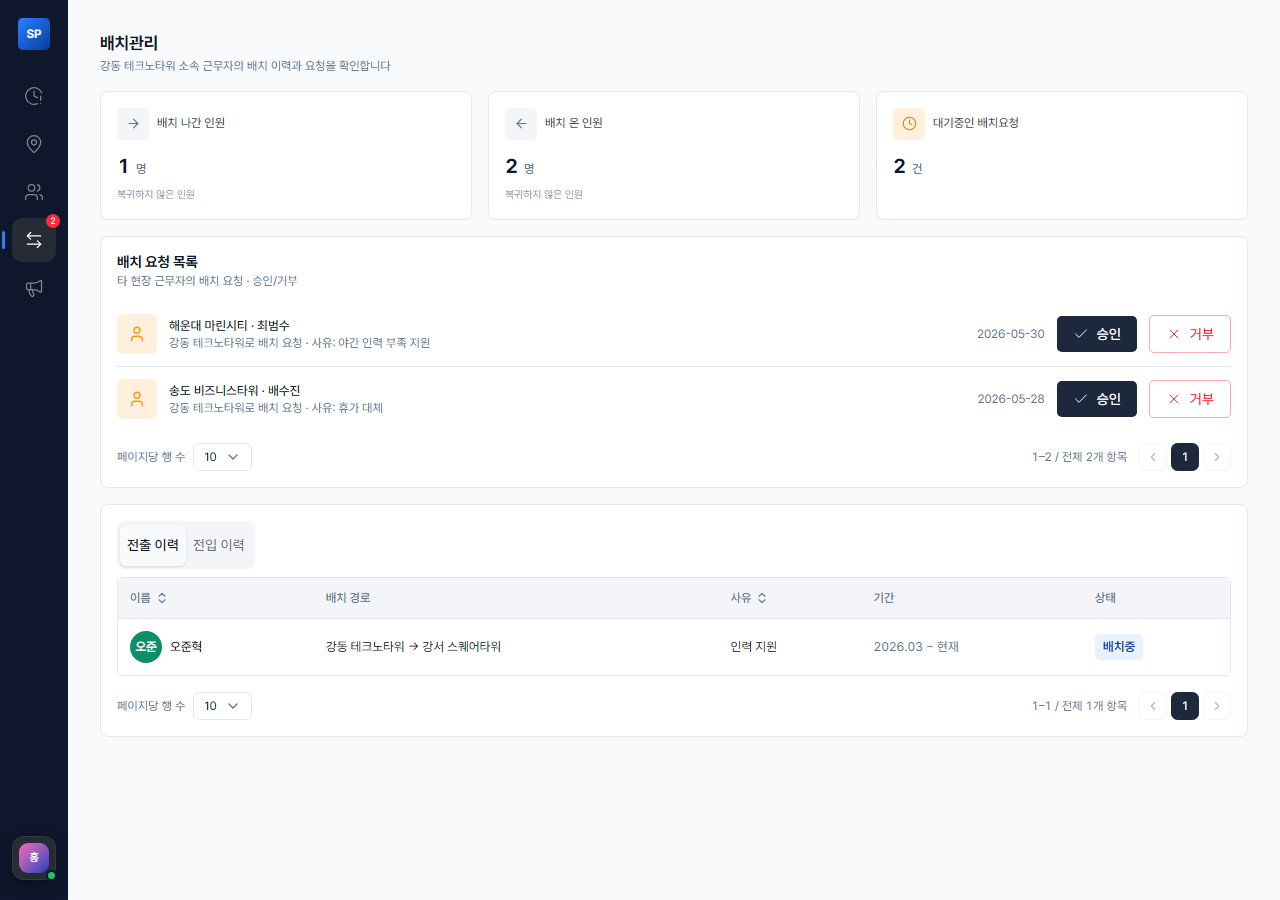
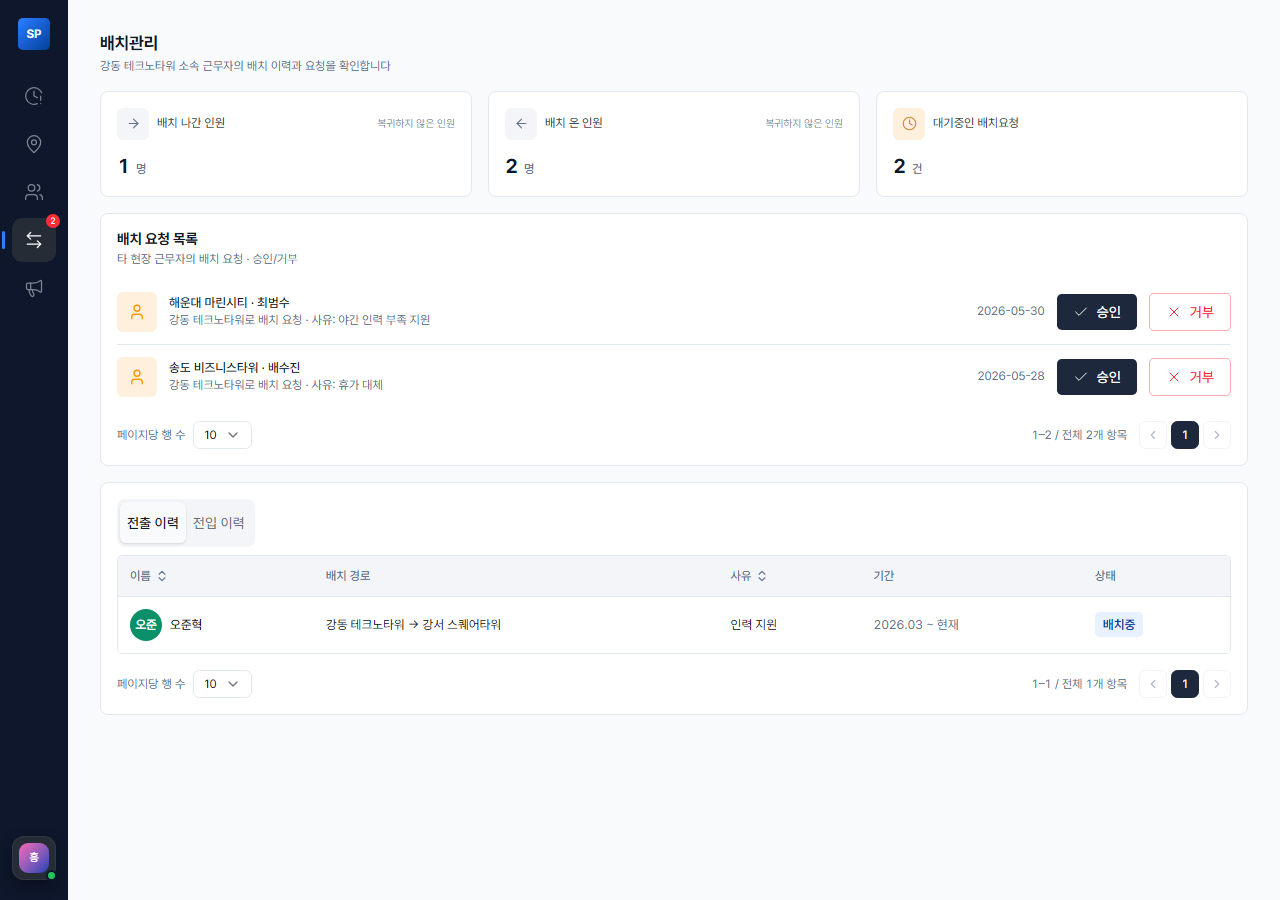
chore : 캡쳐 설비 결정화 + baseline 8장 교체 + 문서 4건
037 이 이월한 "baseline 이 스스로 흔들린다" 를 해소하고, 직전 커밋(f79a844)의
UI 변경을 baseline 에 반영했다.

## 설비 — 흔들리던 원인 둘을 잡았다

**① 애니메이션: `index.css` reduced-motion 블록에 한 줄이 빠져 있었다**

`playwright.config.ts` 는 처음부터 `reducedMotion: 'reduce'` 였고 CSS 규칙도 있었는데,
`animation-duration: 0.01ms` **만** 두고 **`animation-iteration-count: 1` 을 빠뜨렸다.**
`bounce-anim` 은 `infinite` 라 **0.01ms 주기를 계속 돌고** 캡쳐가 **아무 프레임**이나
잡는다 — 037 이 관측한 `공통/404`·`users--목록` 의 1.02%(diff 영역 116×134 동일)가
이것이다. 반복을 1회로 끊으면 100% 지점(`translateY(0)`)에서 **끝나 고정**된다.

**② 날짜: `page.clock.setFixedTime(CAPTURE_NOW)`**

🔴 **`install()` 이 아니다** — 타이머까지 가져가는데 이 캡쳐는 MSW 응답·트랜지션
안착을 전부 **실제 시간으로 기다린다**(`waitForTimeout`). 멈추면 그 대기가 끝나지 않는다.
🔴 **토큰 시각도 같은 상수에서 만든다** — 페이지 시계만 멈추면 세월이 흐른 뒤 `nbf` 가
**페이지의 현재보다 미래**가 된다. 지금은 `exp`·`nbf` 를 검사하지 않아 괜찮지만, 검사가
붙으면 **캡쳐가 전부 로그인 화면**이 되고 원인을 찾기 어렵다(020 선례).

**확인**: 같은 코드로 두 번 찍어 **13장 중 12장이 바이트까지 동일**(전에는 7장이 흔들렸다).
남은 1장은 `patrol-zones--상세` 0.14%(116B)이고 **외부 지도 타일**이다(032 가 잰 노이즈).

## baseline — 8장 교체 · 🔴 지도 3장 보류

교체: `403`·`404`·`users--목록`(애니메이션 고정) · `deployments--대시보드`·`points--상세`
(KPI 보조 문구가 제목 줄로) · `points--목록`·`patrol-zones--목록`·`patrol-points--목록`
(필터 미선택 톤).
🔴 **`patrol-points--목록` 은 +0.00%(4바이트) 인데 실제로 바뀌었다** — 글자색뿐이라 압축
후 크기가 같다. **눈으로 확인하고 덮었다**(2026-10-13 의 `deployments--대시보드` 와 같은 함정).

🔴 **보류 3장**: `patrol-zones--상세`·`patrol-points--상세`·`zones--상세` 는 **타일을 못 받는
환경**에서 찍혀 회색 지도가 됐다(−68%·−35%·−31%). Leaflet 은 **에러 없이** 회색 바탕 +
`© VWorld` 표기만 그린다 — 그대로 덮으면 **지도가 사라진 baseline** 이 남는다.
[…]

diff --git a/e2e/capture.pw.ts b/e2e/capture.pw.ts
@@ -30,9 +30,25 @@ const MS_ROLE_CLAIM = 'http://schemas.microsoft.com/ws/2008/06/identity/claims/r
 
 const base64url = (value: string) => Buffer.from(value, 'utf8').toString('base64url')
 
+/**
+ * 🔴🔴 **캡쳐 시점의 "지금" 을 고정한다** (2026-10-20 — `spec 037` 이월 해소).
+ *
+ * MSW 시드가 **`daysAgo` 기준**이라 날짜 문구가 **찍는 날마다 바뀐다.** `spec 037` 의 전수
+ * 비교에서 손대지 않은 화면 5장이 0.05~0.19% 씩 달랐고(`patrol-zones--상세` ·
+ * `points--목록/상세` 등), 그래서 **"나머지는 안 바뀌었다" 를 픽셀 0% 로 확인할 수 없었다** —
+ * 매번 diff 를 열어 원인을 눈으로 가려야 했다.
+ *
+ * 🔴 **값은 리터럴이다 — `new Date()` 를 쓰면 고정한 의미가 없다.**
+ * 🔴 **토큰 시각도 같은 상수에서 만든다.** 페이지 시계만 멈추고 토큰은 실제 시각으로
+ * 만들면, 세월이 흘렀을 때 `nbf` 가 **페이지의 현재보다 미래**가 된다 — 지금은 클라이언트가
+ * `exp`·`nbf` 를 검사하지 않아 괜찮지만, 검사가 붙는 순간 **캡쳐가 전부 로그인 화면**이 되고
+ * 원인을 찾기 어렵다(020 에서 같은 모양의 사고가 났다).
+ */
+const CAPTURE_NOW = new Date('2026-10-20T09:00:00+09:00')
+
 /** 캡쳐용 accessToken. 서명은 의미 없다 — 클라이언트는 payload만 읽는다. */
 const makeAccessToken = (jwtRole: string) => {
-  const now = Math.floor(Date.now() / 1000)
+  const now = Math.floor(CAPTURE_NOW.getTime() / 1000)
   const header = base64url(JSON.stringify({ alg: 'HS256', typ: 'JWT' }))
   const payload = base64url(
     JSON.stringify({
@@ -72,7 +88,20 @@ const AUTH_SEED = {
   'auth.siteName': '강동 테크노타워',
 }
 
-test.beforeEach(async ({ context }) => {
+test.beforeEach(async ({ context, page }) => {
+  /**
+   * 🔴 **타이머가 아니라 시각만 고정한다**(`setFixedTime`, `install` 이 아니다).
+   *
+   * `clock.install()` 은 `setTimeout`·`requestAnimationFrame` 까지 가져가 **직접 감아야**
+   * 하는데, 이 캡쳐는 react-query 재시도 · MSW 응답 지연 · 트랜지션 안착을 전부 **실제
+   * 시간으로 기다린다**(`waitForTimeout`). 타이머를 멈추면 그 대기들이 영영 끝나지 않는다.
+   * `setFixedTime` 은 `Date.now()`·`new Date()` 만 바꾼다 — 시드가 날짜를 계산하는 바로 그
+   * 자리다.
+   *
+   * ⚠ **`goto` 보다 먼저여야 한다** — 시드는 모듈 로드 시점에 날짜를 만든다.
+   */
+  await page.clock.setFixedTime(CAPTURE_NOW)
+
   await context.addInitScript((seed: Record<string, string>) => {
     for (const [key, value] of Object.entries(seed)) {
       localStorage.setItem(key, value)

diff --git a/src/index.css b/src/index.css
@@ -348,6 +348,18 @@
   *::before,
   *::after {
     animation-duration: 0.01ms !important;
+    /**
+     * 🔴 **이 줄이 빠져 있어서 캡쳐 baseline 이 스스로 흔들렸다**(원인 규명 2026-10-20).
+     *
+     * `animation-duration: 0.01ms` 만으로는 **무한 반복이 멈추지 않는다** — `AppEmpty` 의
+     * `bounce-anim` 은 `infinite` 라 0.01ms 짜리 주기를 계속 돌고, 캡쳐가 **그중 아무 프레임**
+     * 이나 잡는다. 그래서 손대지 않은 화면(`공통/404`·`users--목록`)이 찍을 때마다 **1.02%**
+     * 씩 달랐고, 두 화면의 diff 영역이 **116×134 로 똑같았다**(= 같은 컴포넌트, `spec 037`).
+     *
+     * 반복을 1회로 끊으면 애니메이션이 **100% 지점(`translateY(0)`)에서 끝나 고정**된다.
+     * 표준 reduced-motion 리셋에 원래 함께 들어가는 줄인데 프로젝트에서 누락돼 있었다.
+     */
+    animation-iteration-count: 1 !important;
     transition-duration: 0.01ms !important;
   }
 }

diff --git a/docs/patterns.md b/docs/patterns.md
@@ -587,6 +587,18 @@ AlertDialog: 바뀌는 결과를 문장으로 설명
    눌릴 것처럼 보이는데 안 눌리는 것이 안 눌리게 보이는 것보다 나쁘다.
 8. 🔴 **꺾쇠로 열림/닫힘을 보인다.** 내용 아이콘만으로는 "기록이 있다" 까지만 전달되고
    **눌러서 펼칠 수 있다는 사실이 안 보인다**(사용자 확인에서 나온 자리).
+9. 🔴 **색은 머리 행이 혼자 든다 — 펼친 본문은 흰 바탕이다**(2026-10-20).
+   행과 본문에 **같은 톤**을 깔아 한 덩어리로 묶어 봤더니 **색이 넓게 퍼져 어디가 눌린
+   행인지 흐려졌다.** 하늘색 머리(`bg-point-bg`) + 흰 본문이면 열린 행 하나만 또렷하고
+   내용도 읽기 쉽다. ⚠ 같은 이유로 **머리 행 안의 칩은 열림 색을 따로 갖지 않는다** —
+   행이 `bg-point-bg` 를 입는 순간 같은 색 칩이 **행에 묻힌다**.
+10. 🔴 **펼침 칸에 위 패딩을 준다.** 없으면 본문 첫 줄(작성자·시각 뱃지)이 **행 구분선에
+    붙어** 머리 행의 일부처럼 보인다(사용자 확인 2026-10-20).
+11. 🔴 **펼치기 전에 "얼마나 있는지" 를 보여준다** — 아이콘은 "뭔가 있다" 까지만 말해서
+    **어느 행을 열지 고를 수 없다**. 건수(`사진 3 · 메모 1`)로 적되 **`0` 은 적지 않는다**
+    (`사진 0` 은 사실이 아니라 빈 값이다).
+    ⚠ **셀 수 있을 때만 그렇다** — 같은 뜻의 목록 컬럼(`/patrol/zones`)은 응답에
+    `hasMemo` **boolean 뿐**이라 아이콘으로 남는다. 세려면 행마다 상세 조회(N+1)다.
 
 ### 규칙 — 이미지 폴백
 
@@ -595,7 +607,12 @@ AlertDialog: 바뀌는 결과를 문장으로 설명
 2. 🔴 **404·mixed content·네트워크 실패를 한 분기로 모은다** — 사용자가 할 수 있는 일이 같다.
 3. 🔴 **"준비 중" 류 문구를 쓰지 않는다.** 고쳐지면 `onError` 가 안 불려 폴백이 저절로
    사라지는데, "준비 중" 이라고 적어 두면 **그때 그 문구가 거짓이 된다**.
-4. ⚠ **파일명을 남긴다**(`title`) — 어느 파일이 실패했는지 알아야 백엔드에 전달된다.
+4. 🔴 **파일명을 썸네일 아래 적는다**(2026-10-20). `alt`·`title` 에만 두면 **마우스를
+   올려야** 보여서, 사진이 여러 장일 때 어느 것이 무엇인지 화면에서 구분이 안 된다.
+   ⚠ `title` 에도 **함께** 남긴다 — 캡션이 잘려도 어느 파일이 실패했는지 알아야 백엔드에
+   전달된다.
+5. 🔴 **캡션에 없는 값을 지어내지 않는다** — 목업에는 촬영 시각이 있었지만 첨부 응답은
+   `attachSeq`·`imagePath`·`fileName`·`fileExt` 가 전부다(A1).
 
 ### 하지 않은 것
 
